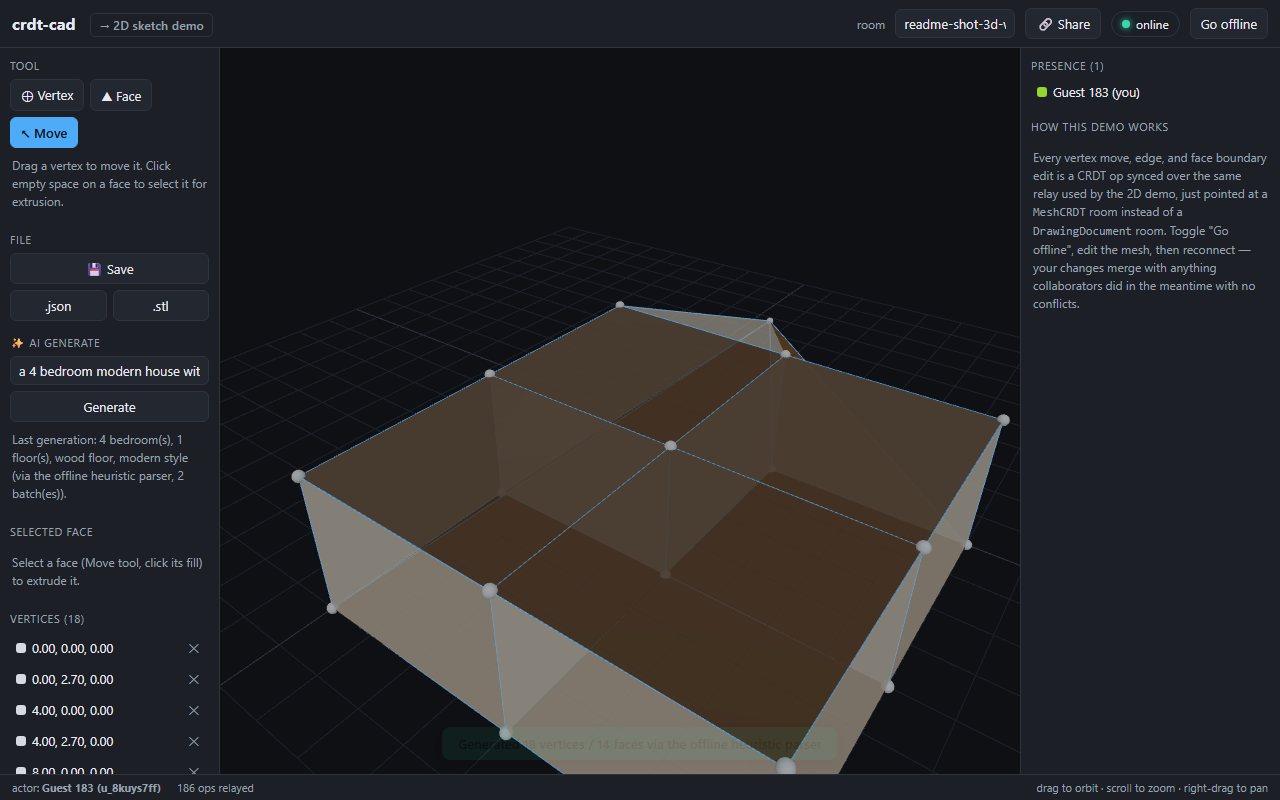
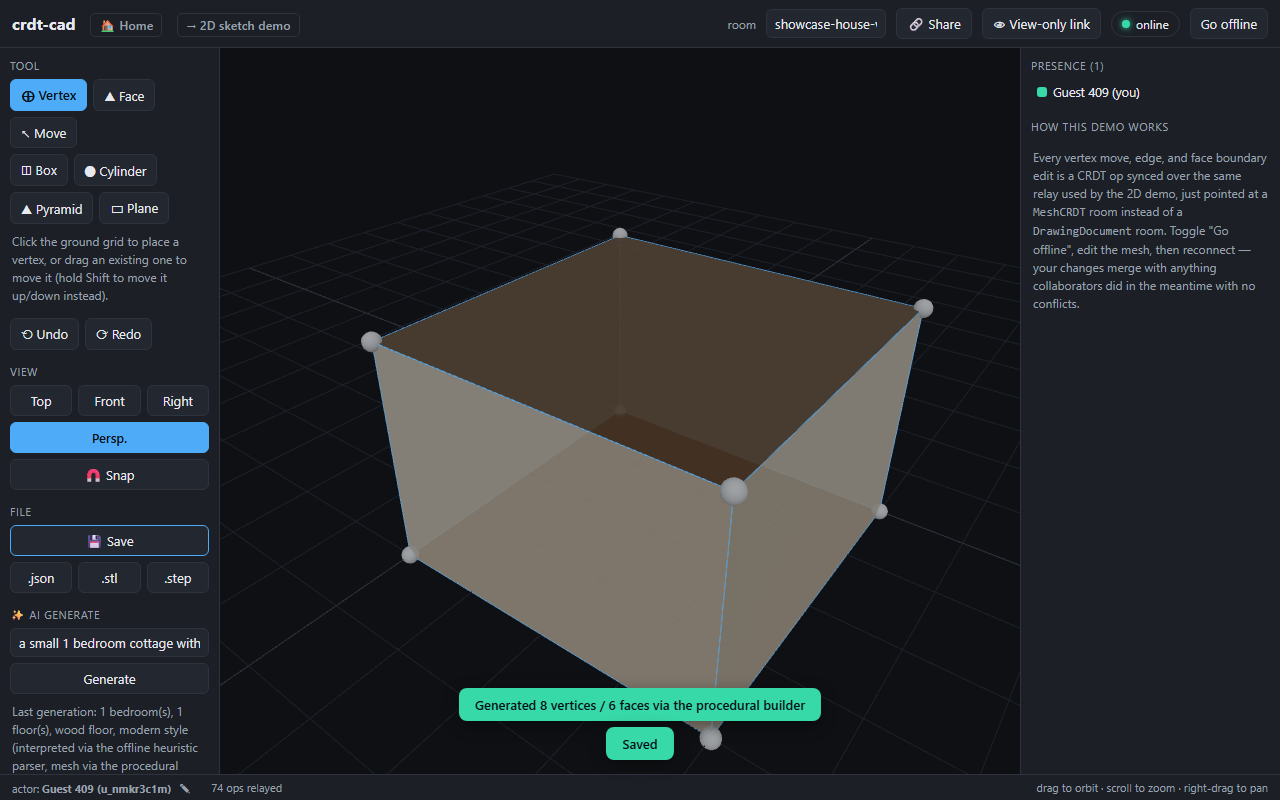
Refresh README hero screenshots to reflect all 17 completed phases
The gallery still showed the pre-Phase-10 UI (bare Pen/Select/Polygon
toolset, no viewport/shapes/measure/constrain/text/fill/groups, no 3D
primitives, no workspace home page at all). Retook all three and added
a fourth: the new workspace home page, a 2D room showing off shapes/
fill/dimension/the full inspector, a 3D room showing the primitive/
view/snap toolset with an AI-generated house, and a refreshed
Time-Travel Merge panel with richer branch content.

Found and noted (not fixed here, out of scope for this change): every
AI-generated house -- even a trivial single-room box -- triggers a
"inconsistent winding between adjacent faces" mesh validity warning,
confirmed reproducible outside the browser/WS pipeline with a plain
generate_mesh_ops() + check_mesh_validity() call. Worth a dedicated
look at procedural_house.py's face winding.

diff --git a/README.md b/README.md
@@ -10,14 +10,20 @@ work. A "Time-Travel Merge" panel shows exactly what happened on each
 branch before the merge completes.
 
 This README documents what's built, how the CRDT engine and sync
-protocol work, and how to run the two live demos (2D sketch, 3D mesh).
-It also says plainly what's still missing and why, rather than papering
-over gaps.
+protocol work, and how to run the workspace home page and its two live
+demos (2D sketch, 3D mesh). It also says plainly what's still missing
+and why, rather than papering over gaps.
+
+Four stages of the same tool, in order of a real session: land on the
+**workspace**, open a **2D sketch** with shapes/fills/dimensions, open a
+**3D mesh** built by the AI generator, and reconnect after editing
+offline to see the **Time-Travel Merge** panel.
 
 <p align="center">
-  <img src="docs/screenshots/2d_sketch_demo.png" width="32%" alt="2D sketch demo: three freehand strokes, layers, and the path selection panel">
-  <img src="docs/screenshots/3d_mesh_ai_generated_house.png" width="32%" alt="3D mesh demo: a 4-bedroom house built by the AI text-to-3D generator, wood floor material rendered from a CRDT face_prop">
-  <img src="docs/screenshots/time_travel_merge.png" width="32%" alt="Time-Travel Merge panel showing two branches diffed before an automatic conflict-free merge">
+  <img src="docs/screenshots/workspace_home.png" width="24%" alt="Workspace home page listing a 2D and a 3D room, each with a kind badge, real thumbnail, rename, and history action">
+  <img src="docs/screenshots/2d_sketch_demo.png" width="24%" alt="2D sketch demo: a rect and line floor plan with a filled circle, the full shape/measure/constrain toolset, and the selection inspector showing fill/dash/rotation">
+  <img src="docs/screenshots/3d_mesh_ai_generated_house.png" width="24%" alt="3D mesh demo: a single-room cottage built by the AI text-to-3D generator, alongside the Box/Cylinder/Pyramid/Plane primitive tools and view/snap controls">
+  <img src="docs/screenshots/time_travel_merge.png" width="24%" alt="Time-Travel Merge panel showing two branches diffed before an automatic conflict-free merge">
 </p>
 
 ## Status at a glance